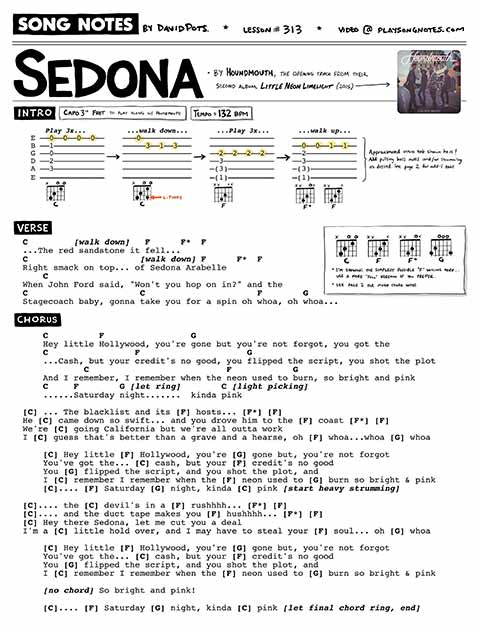
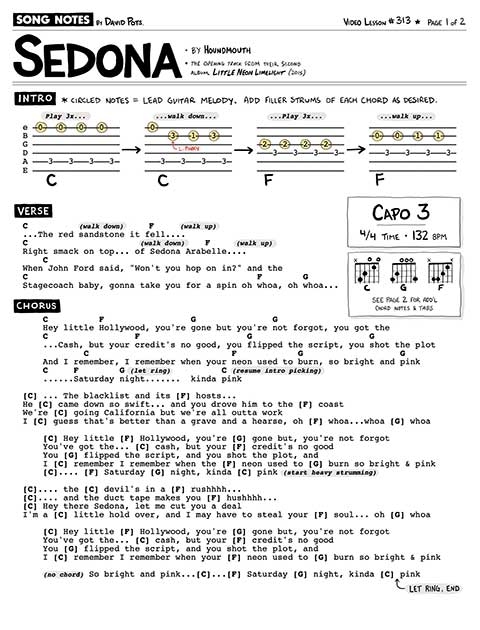
Adds 313 mn url

diff --git a/backlog.md b/backlog.md
@@ -18,6 +18,7 @@ permalink: /backlog/
 
 Here's the songs I've most recently re-listed for purchase at Musicnotes.com. Each arrangement is officially licensed & legal, and also uses my latest sheet music formatting.
 
+- Apr 20 - [Sedona](https://playsongnotes.com/lessons/313/)
 - Apr 19 - [Like a Rolling Stone](https://playsongnotes.com/lessons/33/)
 - Apr 19 - [Feeling Whitney](https://playsongnotes.com/lessons/91/)
 - Apr 16 - [Sweet Child O' Mine](https://playsongnotes.com/lessons/156/)
@@ -68,7 +69,6 @@ Here's the songs I've most recently re-listed for purchase at Musicnotes.com. Ea
     Maybe It's Time •           XXXXXXX
     My Fav. Picture of You      XXXXXXXX
     My Old Kentucky Home        XXXXXXXX
-    Sedona                      XXXXXXX
     Total Eclipse of the Heart  XXXXXXX
 
 <br />

diff --git a/_lessons/313 - sedona by houndmouth.md b/_lessons/313 - sedona by houndmouth.md
@@ -8,8 +8,9 @@ category: full_song
 slug: "313"
 yt_video_id: SyahJJ332uk
 tags: [Full Song Lesson, 2010s, Key of C, Rock]
-pdf_version: copyright
+pdf_version: musicnotes
 pdf_numpages: 2
+musicnotes_url: https://www.musicnotes.com/l/kvvMQ
 patreon_lesson_available: true
 patreon_lesson_url: https://www.patreon.com/posts/40261866
 ---
